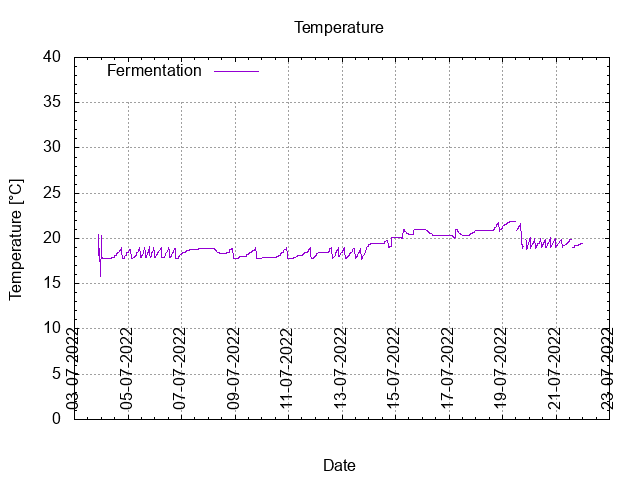
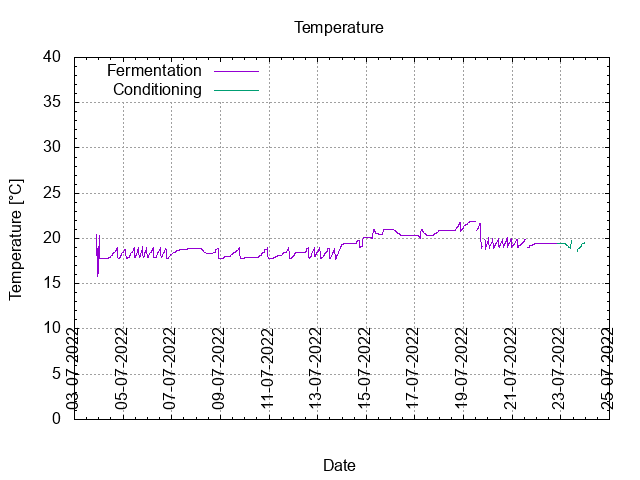
Updated batch 20.

diff --git a/docs/homebrewing/batches/batch_20/README.md b/docs/homebrewing/batches/batch_20/README.md
@@ -6,7 +6,7 @@
 
 03-07-2022 21:30 Start fermentation.
 
-Start conditioning.
+22-07-2022 20:00 Start conditioning.
 
 Completed conditioning.
 
@@ -30,46 +30,25 @@ Archived.
 
 |                         | Recipe | Batch | Diff   | Unit |
 |-------------------------|--------|-------|--------|------|
-| Pre-Boil Volume:        |        |       |        | L    |
-| Post-Boil Volume (HOT): |        |       |        | L    |
-| Boil Off per Hour:      | 1.5    | 1.5   | 0      | L    |
 | Batch Volume:           | 0.75   | 0.75  | 0      | L    |
-| Trub/Chiller Loss:      |        |       |        | L    |
-| Bottling Volume:        |        |       |        | L    |
-| Pre-Boil Gravity:       |        |       |        |      |
+| Bottling Volume:        | 0.75   | 0.66  | -0.09  | L    |
 | Post-Boil Gravity:      | 1.070  | 1.061 | -0.009 |      |
 | Original Gravity:       | 1.070  | 1.060 | -0.010 |      |
-| Total Gravity:          | 1.073  |       |        |      |
-| Final Gravity:          | 1.007  |       |        |      |
-| Alcohol By Volume:      | 8.7    |       |        | %    |
-| Apparent Attenuation:   | 89.9   |       |        | %    |
-| Mash Efficiency:        |        |       |        | %    |
-| Brewhouse Efficiency:   | 95     |       |        | %    |
+| Total Gravity:          | 1.073  | 1.063 | -0.010 |      |
+| Final Gravity:          | 1.007  | 1.002 | -0.005 |      |
+| Alcohol By Volume:      | 8.7    | 8.0   | -0.7   | %    |
+| Apparent Attenuation:   | 89.9   | 96.6  | +6.7   | %    |
+| Brewhouse Efficiency:   | 95     | 81    | -14    | %    |
 | IBU:                    | 28     | 28    | 0      |      |
 | BU/GU Ratio:            | 0.39   | 0.45  | +0.06  |      |
-| RB Ratio:               | 0.44   | 0.52  | +0.08  |      |
+| RB Ratio:               | 0.44   | 0.54  | +0.10  |      |
 | Color                   | 6.7    | 6.7   | 0      | EBC  |
-| Mash pH:                |        |       |        |      |
 
 ## Tasting notes
 
 | No. | Date       | Age | Score | Notes |
 |-----|------------|-----|-------|-------|
 |     | 03-07-2022 |   0 |       | Brew day. |
-|     |            |     |       | Bottling day. |
+|     | 22-07-2022 |  19 |       | Bottling day. |
 |   1 |            |     |       |  |
 |   2 |            |     |       |  |
-|   3 |            |     |       |  |
-|   4 |            |     |       |  |
-|   5 |            |     |       |  |
-|   6 |            |     |       |  |
-|   7 |            |     |       |  |
-|   8 |            |     |       |  |
-|   9 |            |     |       |  |
-|  10 |            |     |       |  |
-|  11 |            |     |       |  |
-|  12 |            |     |       |  |
-|  13 |            |     |       |  |
-|  14 |            |     |       |  |
-|  15 |            |     |       |  |
-|  16 |            |     |       |  |
